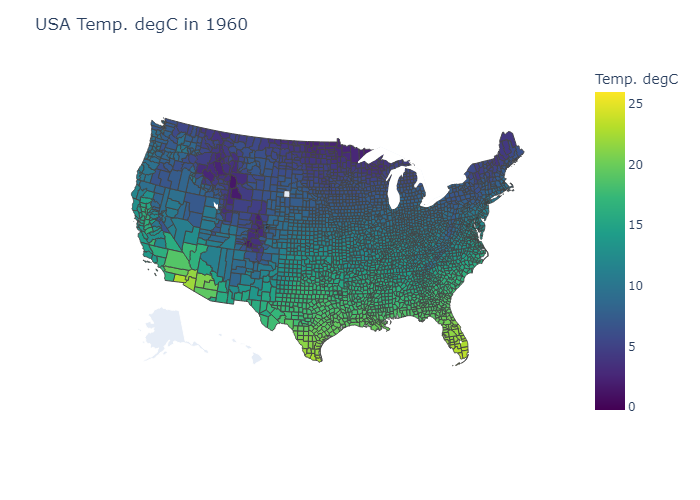
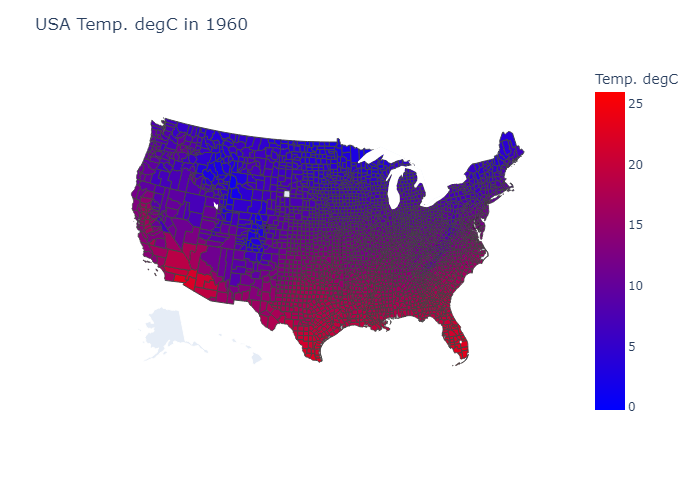
Updated colors

Changed region(s): [[0.18, 0.24, 0.75, 0.72], [0.84, 0.18, 0.9, 0.84]]

diff --git a/Project/MapVisualizations/SS340_Project_MapPlots.py b/Project/MapVisualizations/SS340_Project_MapPlots.py
@@ -13,7 +13,6 @@ import numpy as np
 import json
 import pandas as pd
 
-show = False
 pio.renderers.default = "browser"
 # pio.renderers.default = "png"
 
@@ -40,7 +39,9 @@ for year in set(df.year):
                             geojson=counties,
                             locations='fips',
                             color=key,
-                            color_continuous_scale="Viridis",
+                            color_continuous_scale=("Bluered"
+                                                    if key == "tempc"
+                                                    else "Viridis"),
                             range_color=range_color[key],
                             scope="usa",
                             labels={key: value},
@@ -48,4 +49,4 @@ for year in set(df.year):
         fig.update_layout(title=f"USA {value} in {year}")
 
         fig.write_image(f"figures/SS340_map_{year}{key}.png")
-        fig.show()
+        # fig.show()
